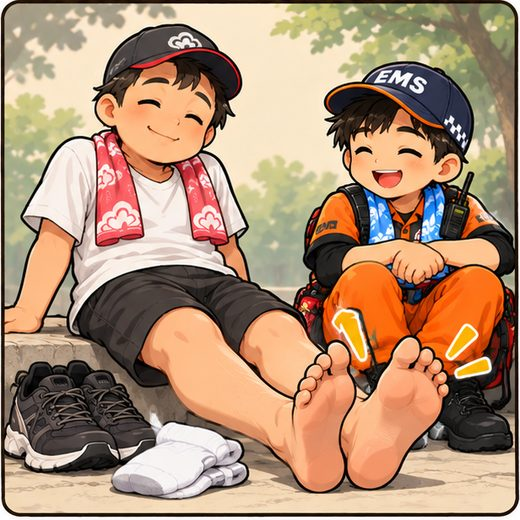
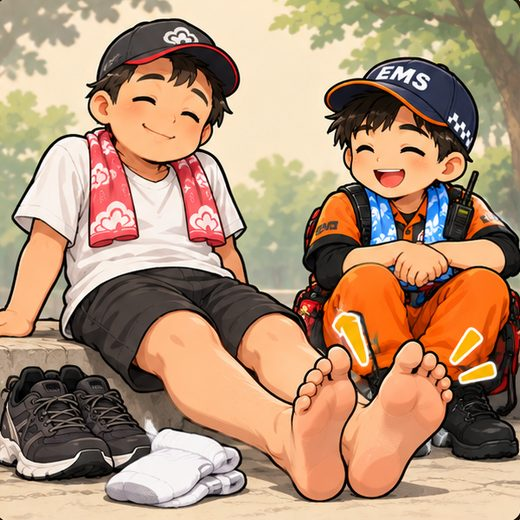
衛教漫畫去白邊；看完結尾頁與重點頁加入官方帳號提示
Claude-Session: https://claude.ai/code/session_01UgnuMUR9BFixKJirFzAXJh

diff --git a/edu/index.html b/edu/index.html
@@ -74,6 +74,12 @@
   .warn a{display:inline-flex;margin-top:8px;text-decoration:none;background:#dc2626;color:#fff;font-weight:900;border-radius:999px;padding:8px 18px;font-size:15px}
   .nav{display:flex;gap:10px;margin-top:14px}
   .nav button{flex:1;border:none;border-radius:14px;padding:12px 6px;font:inherit;font-size:15px;font-weight:900;cursor:pointer;background:#f6efeb;color:#7c2d12}.nav button.nx{background:var(--c);color:#fff}
+  .join{display:block;margin-top:12px;text-align:center;text-decoration:none;background:#06C755;color:#fff;font-weight:900;border-radius:14px;padding:11px;font-size:15px}
+  .end{flex:1;display:flex;flex-direction:column;align-items:center;justify-content:center;gap:10px;padding:24px;background:linear-gradient(160deg,#D65A68,#F08339);text-align:center;position:relative}
+  .end .ex{position:absolute;top:calc(14px + env(safe-area-inset-top));right:14px;border:none;background:rgba(255,255,255,.2);color:#fff;width:38px;height:38px;border-radius:50%;font-size:18px}
+  .end .big{font-size:64px}.end h3{margin:0;font-size:26px;font-weight:900}.end p{margin:0 0 8px;font-size:15.5px;line-height:1.7;opacity:.95}
+  .end a,.end .bk{display:block;width:100%;max-width:320px;text-decoration:none;color:#fff;font:inherit;font-weight:900;font-size:16px;border-radius:14px;padding:13px;border:none}
+  .end .ln{background:#06C755}.end .fb{background:#1877F2}.end .ig{background:linear-gradient(90deg,#f58529,#dd2a7b 50%,#8134af)}.end .bk{background:rgba(255,255,255,.22);margin-top:4px;cursor:pointer}
   .tip{position:absolute;left:50%;bottom:calc(18px + env(safe-area-inset-bottom));transform:translateX(-50%);font-size:12.5px;opacity:.7;white-space:nowrap;pointer-events:none}
 </style>
 </head>
@@ -81,9 +87,9 @@
 <div class="card">
   <div class="st" style="margin:0"><h2>📖 衛教漫畫<small>點圓圈開始看 →</small></h2><div class="row"><button class="sb" data-i="0"><span class="ring"><img src="img/wound-2.jpg" alt=""></span><b>外傷</b><i>NEW</i></button><button class="sb" data-i="1"><span class="ring"><img src="img/sun-1.jpg" alt=""></span><b>防曬</b><i>NEW</i></button><button class="sb" data-i="2"><span class="ring"><img src="img/foot-3.jpg" alt=""></span><b>水泡</b><i>NEW</i></button><button class="sb" data-i="3"><span class="ring"><img src="img/water-4.jpg" alt=""></span><b>補水抽筋</b><i>NEW</i></button><button class="sb" data-i="4"><span class="ring"><img src="img/heat-2.jpg" alt=""></span><b>中暑</b><i>NEW</i></button><button class="sb" data-i="5"><span class="ring"><img src="img/help-1.jpg" alt=""></span><b>找醫護</b><i>NEW</i></button></div></div>
   <div class="cover"><img src="img/cover.jpg" alt="白沙屯拱天宮醫護團 衛教介紹：外傷處理、防曬與熱傷害、足部保護與水泡、補水與預防抽筋、中暑處置與休息、活動協助與緊急聯絡"><button class="hot" data-i="0" aria-label="外傷處理" style="left:4.7%;top:46.8%;width:30.1%;height:20.2%"></button><button class="hot" data-i="1" aria-label="防曬與熱傷害" style="left:36.1%;top:46.8%;width:28.3%;height:20.2%"></button><button class="hot" data-i="2" aria-label="足部保護與水泡" style="left:65.6%;top:46.8%;width:29.7%;height:20.2%"></button><button class="hot" data-i="3" aria-label="補水與預防抽筋" style="left:4.7%;top:67.7%;width:30.1%;height:20.2%"></button><button class="hot" data-i="4" aria-label="中暑處置與休息" style="left:36.1%;top:67.7%;width:28.3%;height:20.2%"></button><button class="hot" data-i="5" aria-label="活動協助與緊急聯絡" style="left:65.6%;top:67.7%;width:29.7%;height:20.2%"></button></div>
-  <div class="hint" style="margin-top:14px">👆 也可以直接點上面名片的漫畫</div>
+  <div class="hint" style="margin-top:14px">👆 也可以直接點上面名片的漫畫<br><a href="#soc" style="color:#06a34a;text-decoration:none">💬 往下加入醫護團 LINE／FB／IG ↓</a></div>
   <a class="call" href="tel:119">🚑 緊急請撥 <b>119</b></a>
-  <div class="soc"><h2>🧡 關注白沙屯拱天宮醫護團</h2>
+  <div class="soc" id="soc"><h2>🧡 關注白沙屯拱天宮醫護團</h2>
     <a class="ln" href="https://line.me/R/ti/p/@393geitc"><svg viewBox="0 0 40 40"><rect width="40" height="40" rx="9" fill="#06C755"/><path fill="#fff" d="M20 8C12.3 8 6 13 6 19.2c0 5.5 4.9 10.1 11.6 11 .5.1 1.1.3 1.2.7.1.4.1.9 0 1.3l-.2 1.2c-.1.4-.3 1.4 1.2.8 1.5-.6 8.1-4.8 11-8.2 2-2.2 3-4.4 3-6.8C34 13 27.7 8 20 8z"/><path fill="#06C755" d="M13 16.5v6h3.6M18.4 16.5v6M21 22.5v-6l4 6v-6M31 16.5h-3.6v6H31M27.4 19.5H31" stroke="#06C755" stroke-width="1.6" stroke-linecap="round" stroke-linejoin="round" fill="none"/></svg><span>LINE 官方帳號<small>加好友・看更多衛教、找醫護團</small></span><i>›</i></a>
     <a class="fb" href="https://www.facebook.com/tszshinems/"><img src="/richmenu/ic-fb.png" alt=""><span>Facebook 粉絲專頁<small>活動花絮與最新消息</small></span><i>›</i></a>
     <a class="ig" href="https://www.instagram.com/tszshinems/"><img src="/richmenu/ic-ig.png" alt=""><span>Instagram<small>@tszshinems</small></span><i>›</i></a>
@@ -118,12 +124,20 @@ function render() {
     cancelAnimationFrame(raf); markSeen(ti);
     sv.innerHTML = head + `<div class="sum"><h3>重點整理</h3><ol>${d.pts.map(([a, b]) => `<li><span class="h">${a}</span>${b}</li>`).join('')}</ol>
       <div class="warn"><b>⚠ 有這些情況，${d.call ? '請撥 119' : '請找醫護團'}</b><ul>${d.warn.map(w => `<li>${w}</li>`).join('')}</ul>${d.call ? '<a href="tel:119">📞 撥打 119</a>' : ''}</div>
-      <div class="nav"><button id="rp">↺ 再看一次</button><button class="nx" id="nt">${ti < D.length - 1 ? '下一則 ›' : '看完了 ✓'}</button></div></div>`;
+      <div class="nav"><button id="rp">↺ 再看一次</button><button class="nx" id="nt">${ti < D.length - 1 ? '下一則 ›' : '看完了 ✓'}</button></div><a class="join" href="https://line.me/R/ti/p/@393geitc">💬 加入醫護團 LINE 官方帳號，看更多衛教 ›</a></div>`;
     sv.querySelector('.pg').lastElementChild.firstElementChild.style.width = '100%';
     sv.querySelector('#rp').onclick = () => { si = 0; render(); };
-    sv.querySelector('#nt').onclick = () => ti < D.length - 1 ? open(ti + 1) : close();
+    sv.querySelector('#nt').onclick = () => ti < D.length - 1 ? open(ti + 1) : endScreen();
   }
   sv.querySelector('#x').onclick = close;
+}
+function endScreen() {
+  cancelAnimationFrame(raf);
+  sv.style.setProperty('--c', '#c2414f');
+  sv.innerHTML = `<div class="end"><button class="ex" id="x" aria-label="關閉">✕</button><div class="big">🎉</div><h3>6 則都看完了！</h3><p>一起平安走完進香路 🙏<br>加入官方帳號，隨時找得到醫護團</p>
+    <a class="ln" href="https://line.me/R/ti/p/@393geitc">💬 加入 LINE 官方帳號</a><a class="fb" href="https://www.facebook.com/tszshinems/">👍 Facebook 粉絲專頁</a><a class="ig" href="https://www.instagram.com/tszshinems/">📷 Instagram</a>
+    <button class="bk" id="bk">回到首頁</button></div>`;
+  sv.querySelector('#x').onclick = close; sv.querySelector('#bk').onclick = () => { close(); setTimeout(() => document.querySelector('.soc').scrollIntoView({ behavior: 'smooth', block: 'center' }), 150); };
 }
 function tick() {
   if (!ov.classList.contains('on')) return;
